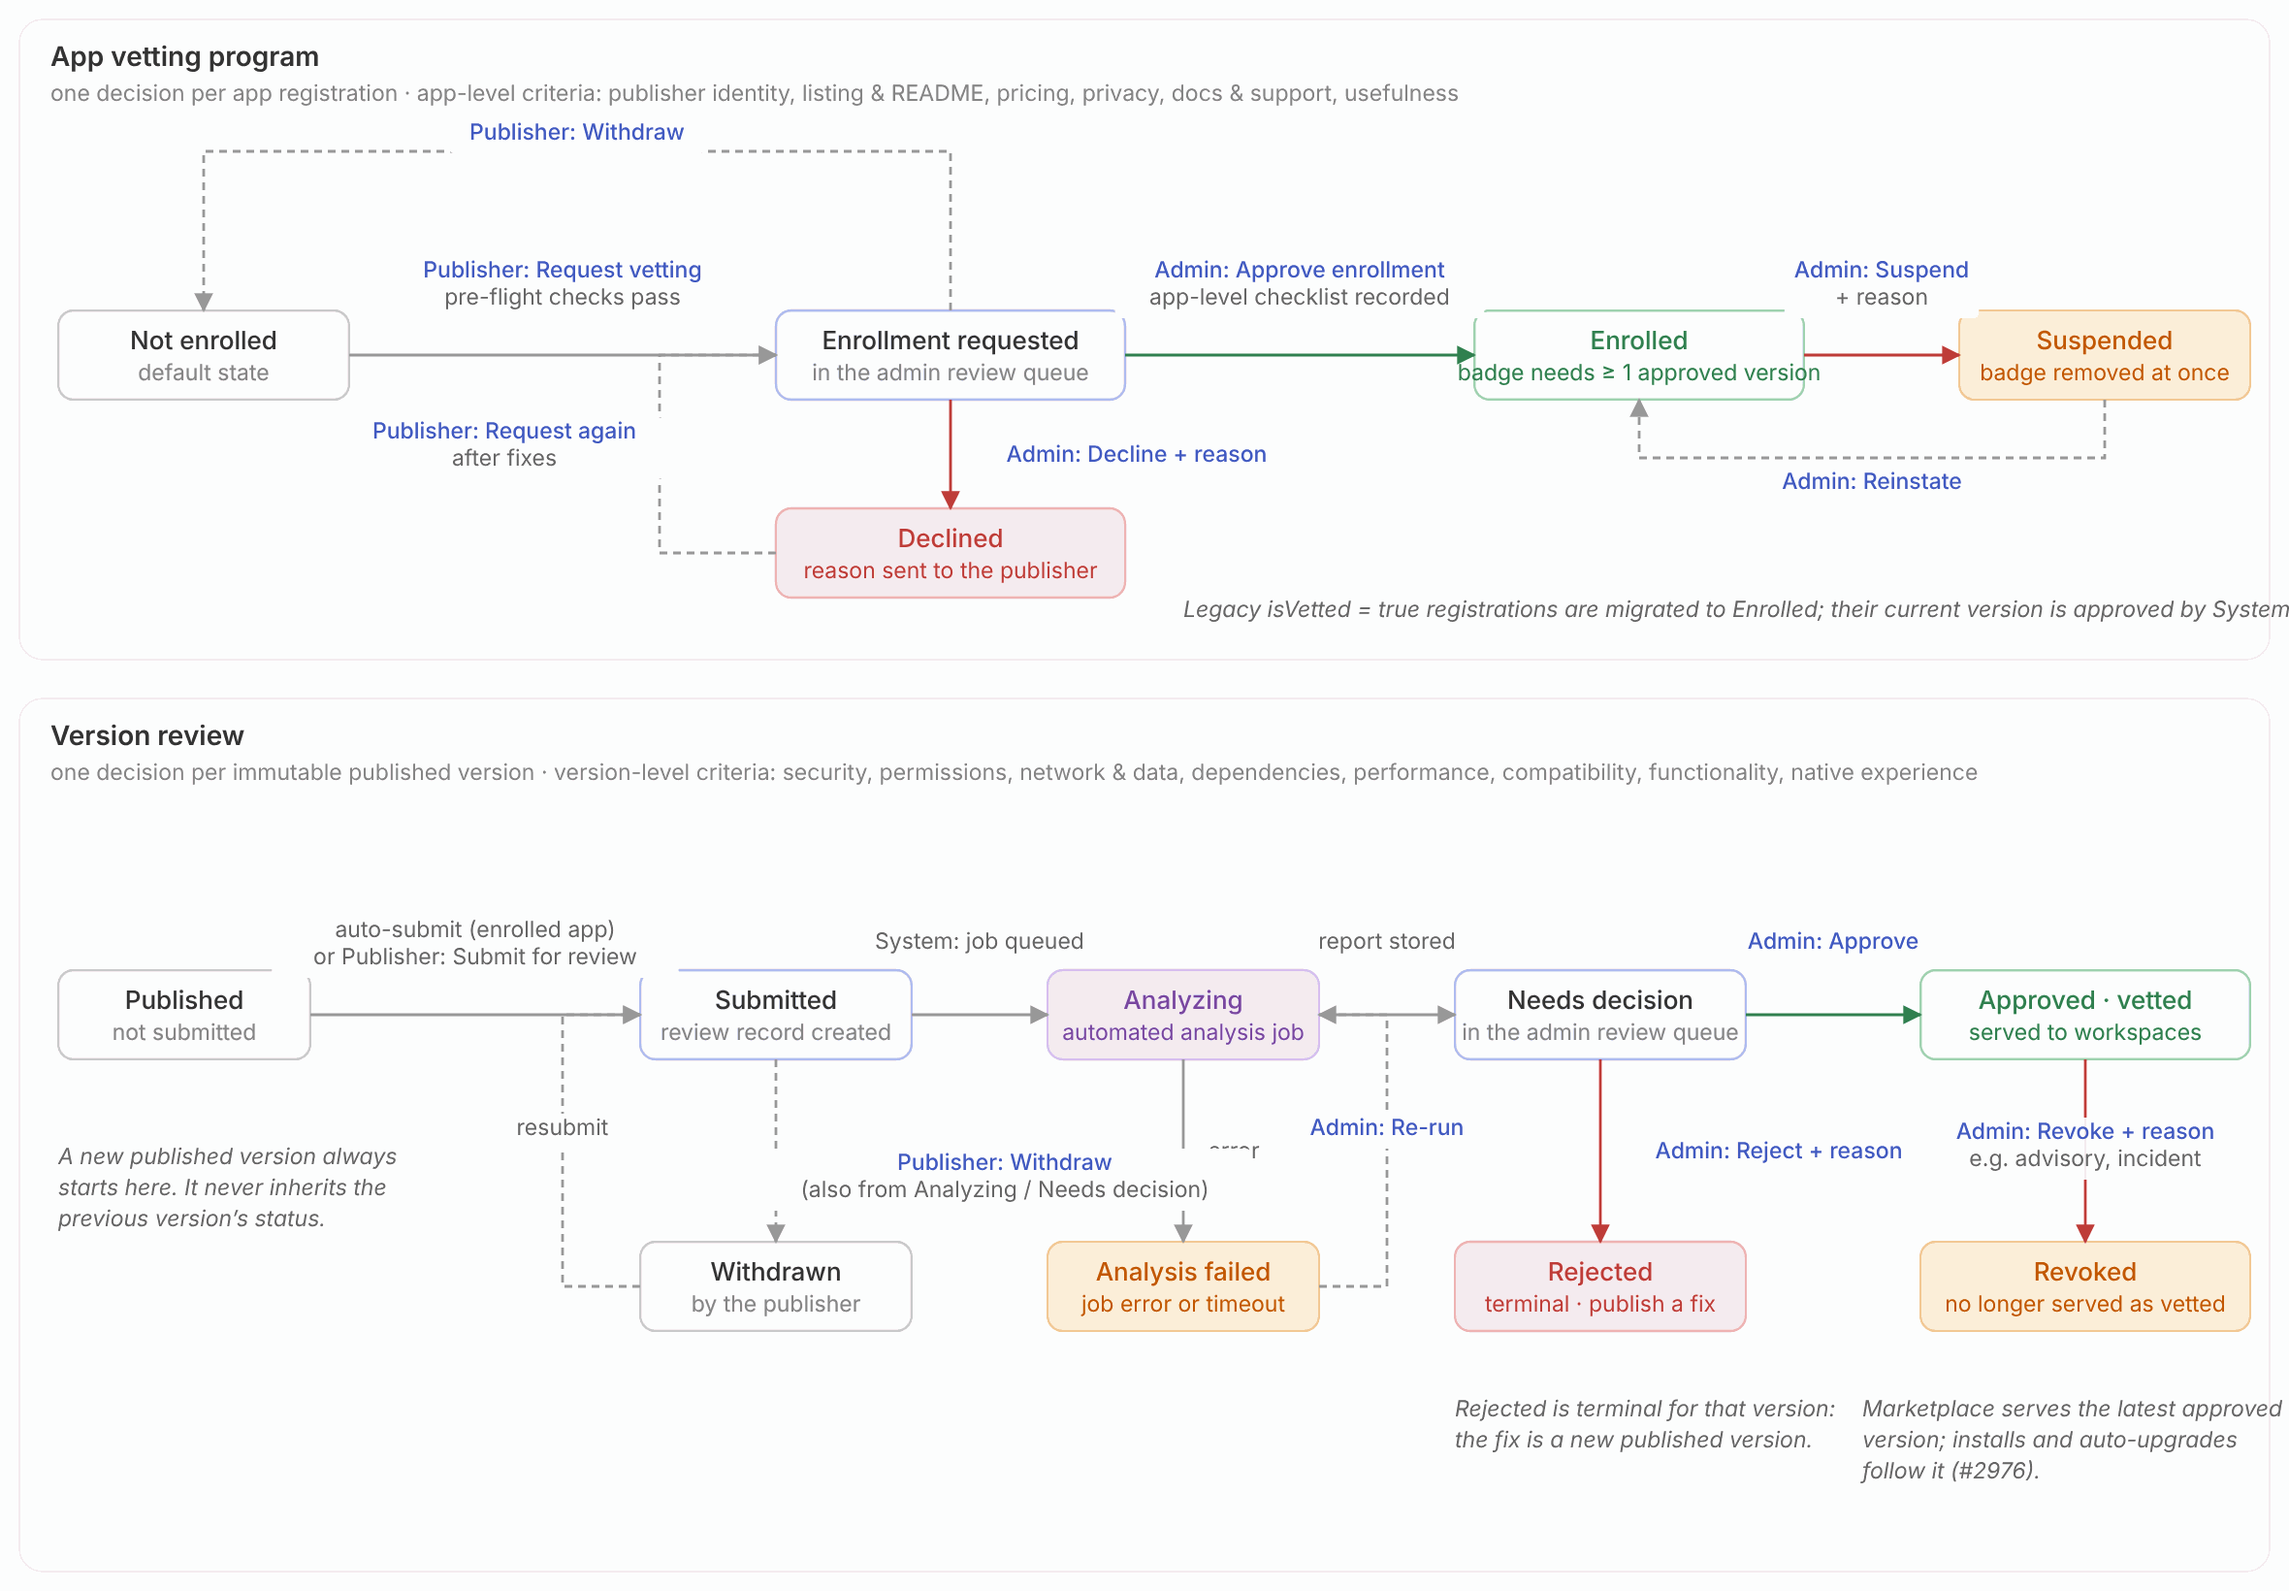
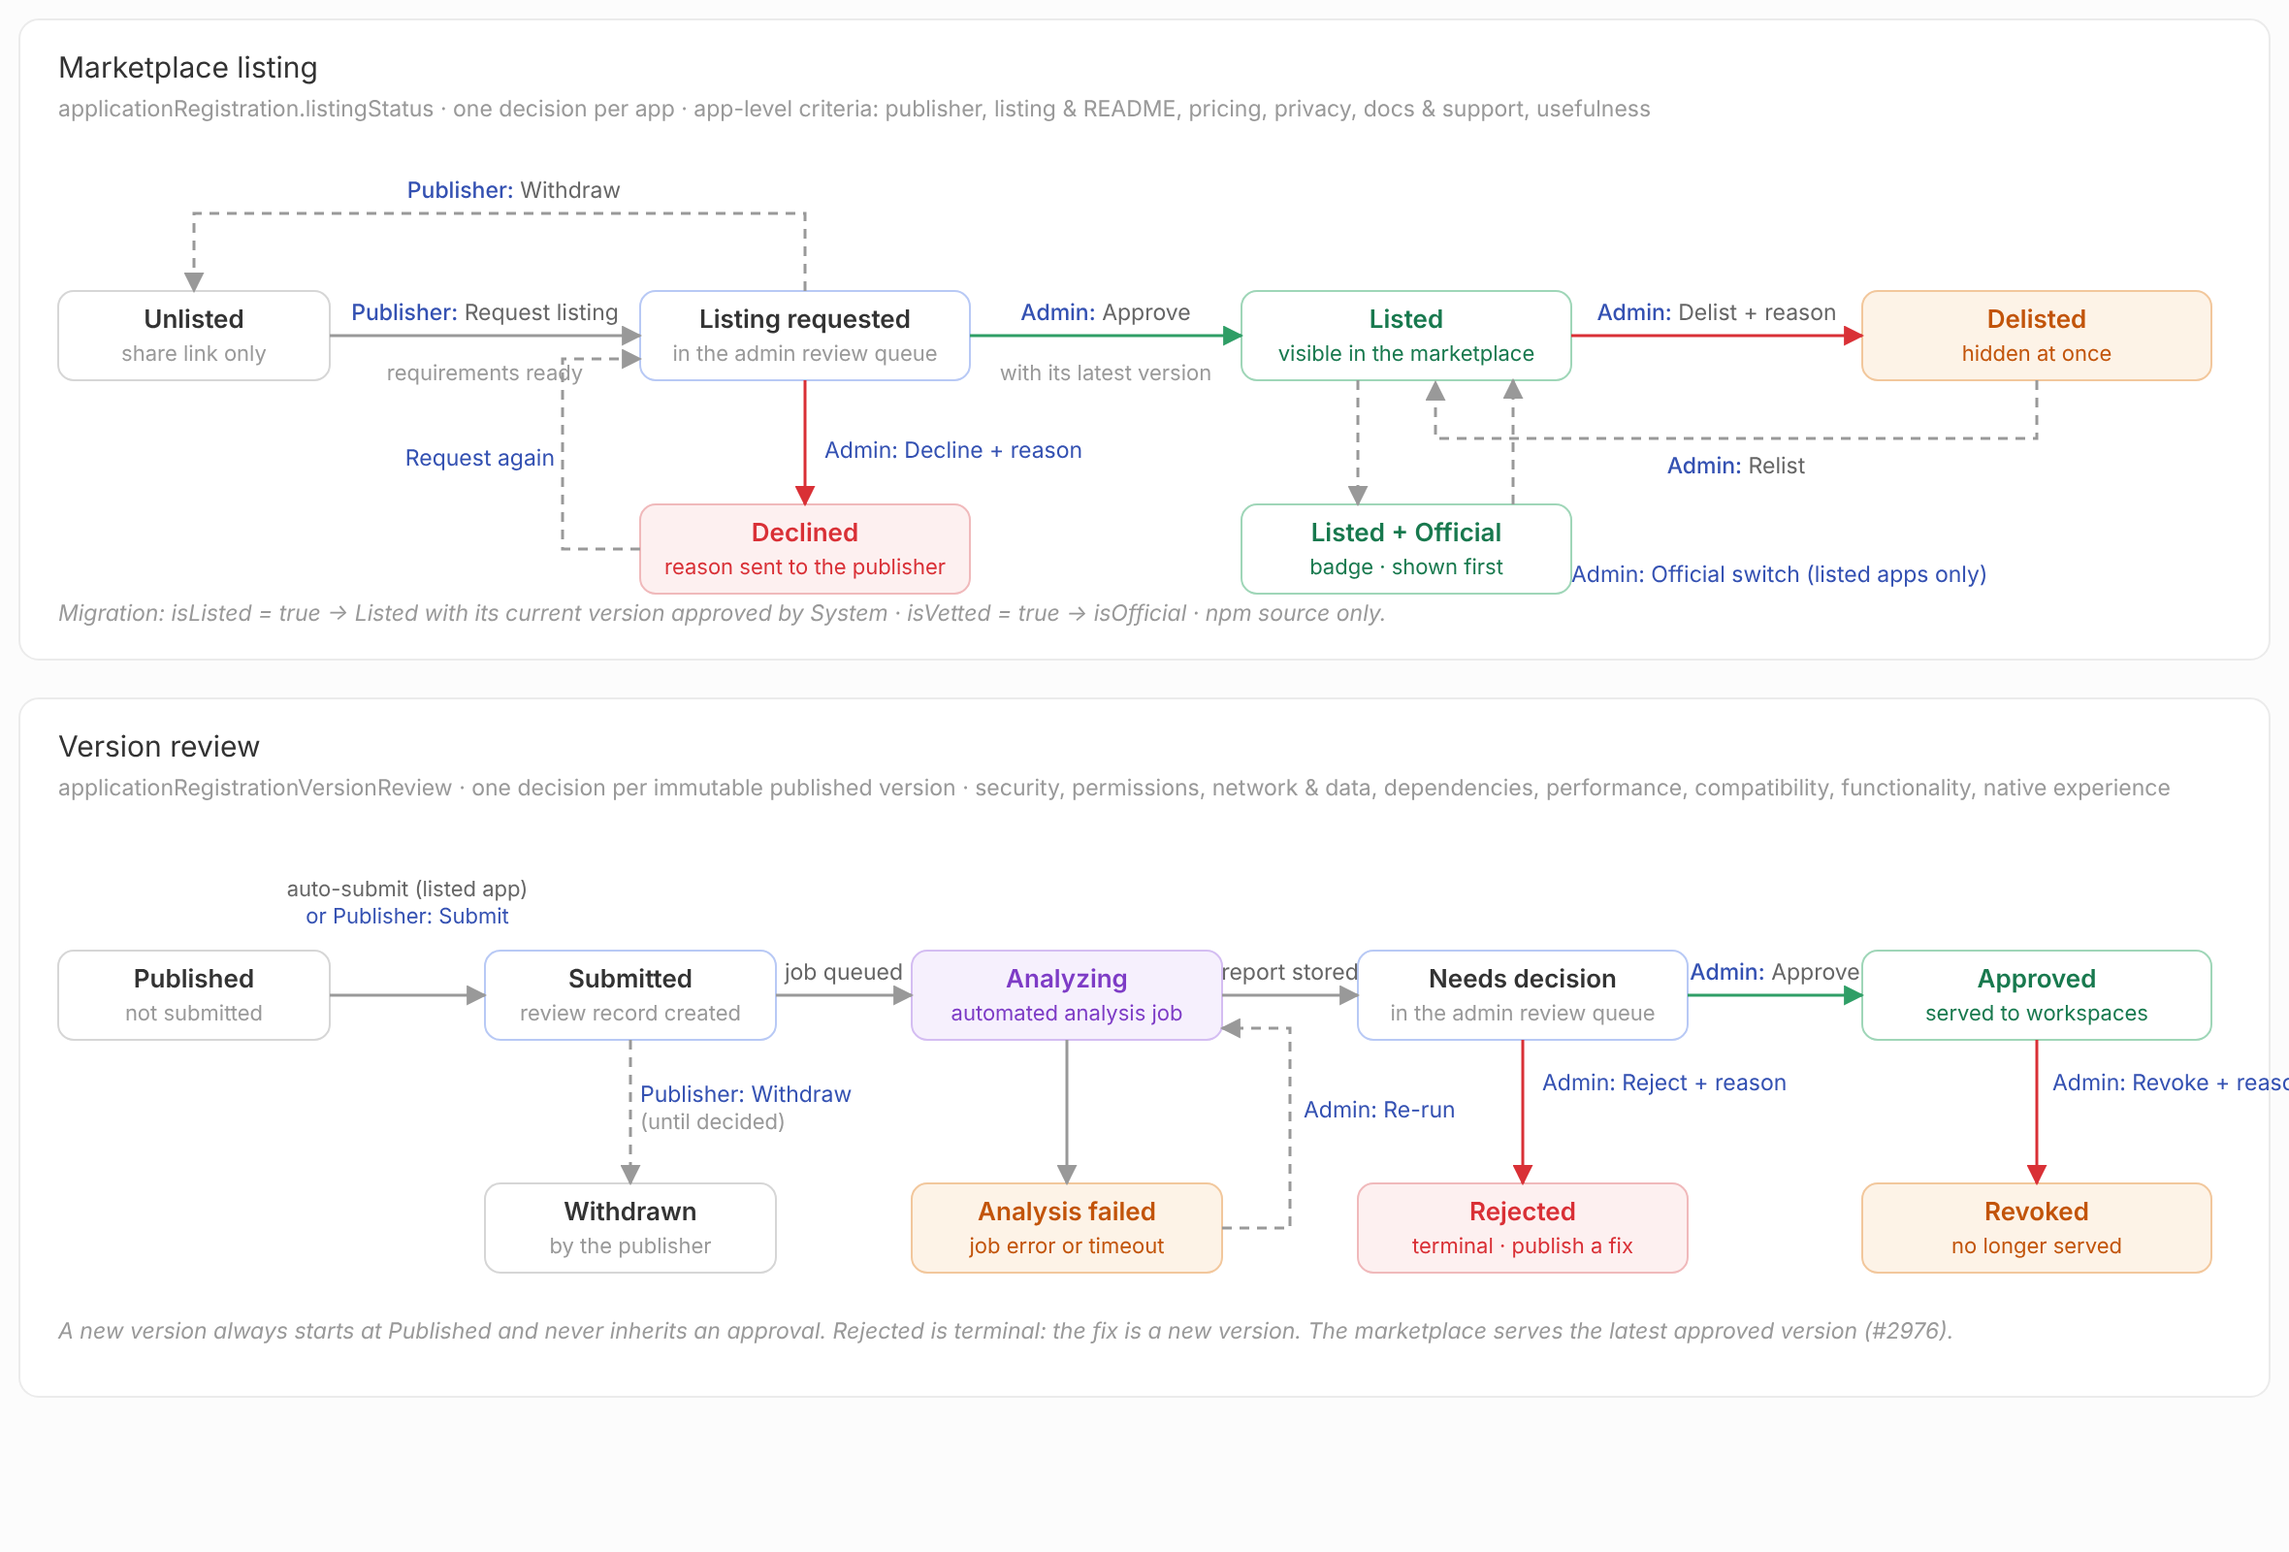
Revise app review design: listed and official apps, shared Distribution tab
Every marketplace app is reviewed (listingStatus), Official replaces Vetted
as the badge, the review queue moves above the registrations table, and the
admin and publisher pages share the Distribution tab and version page.

Claude-Session: https://claude.ai/code/session_01QtTKa8mMqxR8gMtZDAMiki

diff --git a/packages/twenty-server/docs/APP_VETTING_REVIEW.md b/packages/twenty-server/docs/APP_VETTING_REVIEW.md
@@ -1,4 +1,4 @@
-# App vetting review workflow
+# App listing and version review
 
 Design for [core-team-issues#2975](https://github.com/twentyhq/core-team-issues/issues/2975): submit, approve or reject a published app version. It builds on the immutable version records (`core.applicationRegistrationVersion`) and the [vetting checklist](../../twenty-docs/developers/extend/apps/operations/marketplace-vetting.mdx).
 
@@ -6,31 +6,82 @@ The images in `app-vetting-review/` are design mockups, not screenshots of shipp
 
 ## Principles
 
-- The vetted designation belongs to an exact published version. A new release never inherits it.
-- Two kinds of requests: an app enrolls once in the vetted program (app-level criteria), then every published version is reviewed on its own (version-level criteria).
+- Every app in the marketplace is reviewed by Twenty. **Listed** means reviewed and visible to every workspace. There is no unreviewed tier inside the marketplace.
+- **Official** is a badge on top of a listed app: the reference app for an integration (one official Slack app, one official WhatsApp app). An admin grants it; it replaces today's `isVetted`.
+- Listing is decided once per app (app-level criteria). Every published version of a listed app is then reviewed on its own (version-level criteria) and never inherits a previous approval.
 - Automated analysis prepares every decision; a server admin stamps it. Nothing is approved without a human.
-- Every submission, analysis, decision and revocation is an audit event with actor, timestamp and reason.
 - The marketplace serves the latest approved version compatible with the server, never the latest published one (issue 2976).
+- Unlisted apps stay installable with a share link, behind a "not reviewed by Twenty" warning.
+- The admin and publisher app pages share one Distribution tab and one version page; only the actions differ.
+
+## Naming
+
+| Today | New | Meaning |
+| --- | --- | --- |
+| `isListed` (admin switch "Allow installation") | `listingStatus`: `UNLISTED`, `LISTING_REQUESTED`, `LISTED`, `DECLINED`, `DELISTED` | Reviewed and visible in the marketplace. |
+| `isVetted` (admin switch "Vetted") | `isOfficial` | Official badge, shown first. Only on listed apps. |
+| `MARKETPLACE_VETTED_APPLICATIONS` | `MARKETPLACE_OFFICIAL_APPLICATIONS` | Seeds `isOfficial` and orders official apps. |
+| "Vetted only" filter, "not vetted" banners | "Official only" filter (off by default); "not reviewed by Twenty" banner on unlisted apps | |
+
+"Vetting" stays the name of the review process in docs; it is no longer a status.
 
 ## Workflows
 
 ![Workflow states](app-vetting-review/workflow-states.png)
 
-![End-to-end sequence](app-vetting-review/workflow-sequence.png)
+End to end:
+
+1. The publisher runs `twenty app publish` from CI; npm stores the package with its provenance attestation.
+2. The catalog sync records the version with its sha512 integrity and provenance.
+3. If the app is listed and auto-submit is on, a review is created; otherwise the publisher submits from the Versions table.
+4. The analysis job verifies the artifact, runs the scanners and the agent review, and stores the report. The review moves to "Needs decision" and appears in the admin review queue.
+5. An admin approves or rejects with a reason. Approval refreshes the catalog cache, and installs and auto-upgrades move to that version.
+6. The publisher gets the decision and the reason by email and in the Versions table. A rejected version is final: the fix is a new version, which starts again at step 2.
+
+## Admin experience
+
+Admin Panel > Apps: the review queue sits between the catalog actions and the registrations table. The Vetted column becomes Listing (status) plus the served version, and official apps carry the badge next to their name.
+
+![Admin Apps tab](app-vetting-review/admin-apps.png)
+
+App detail > Distribution: the listing card (approve, decline, delist with a reason), the Official switch, the listing requirements with the reviewer's verdicts, the versions table with row actions, sharing and the activity log. The "Allow installation" and "Vetted" switches leave the General tab; "Pre-install on new workspaces" stays there.
+
+![Admin Distribution tab](app-vetting-review/distribution-admin.png)
+
+The version page, opened from a Versions row, shows the submission facts, the automated report, the changes since the last approved version and, for admins only, the decision form.
+
+![Version review page](app-vetting-review/version-review.png)
+
+## Publisher experience
+
+Settings > Developers > app > Distribution: the same tab. An unlisted app shows the listing requirements, checked automatically, and the "Request listing" button, which stays disabled until they are all ready. Versions can be self-checked before the request.
+
+![Publisher Distribution tab, unlisted](app-vetting-review/distribution-publisher-unlisted.png)
+
+Once the app is listed, the publisher sees the same listing card (with a read-only Official state), the auto-submit switch, the versions with each rejection's reason, and the activity log. The row menu offers "Open review", "Run self-check" and "Withdraw submission".
+
+![Publisher Distribution tab, listed](app-vetting-review/distribution-publisher.png)
+
+## Marketplace
+
+All listed apps show without a filter. Official apps come first with a badge ("Official app" tooltip). Install and upgrade resolve to the latest approved version. The owner workspace sees a note when a newer version awaits review. A shared link to an unlisted app shows a warning.
+
+![Marketplace](app-vetting-review/marketplace.png)
 
 ## Data model
 
 | Change | Purpose |
 | --- | --- |
-| `applicationRegistration.vettingStatus` (`NOT_ENROLLED`, `ENROLLMENT_REQUESTED`, `ENROLLED`, `DECLINED`, `SUSPENDED`) | Replaces the `isVetted` boolean as source of truth. `isVetted` stays as a derived GraphQL field: enrolled and at least one approved version compatible with the server. |
-| `applicationRegistration.autoSubmitNewVersions` | Publisher preference, default `true` once enrolled. |
+| `applicationRegistration.listingStatus` | Replaces `isListed`. The catalog query filters on `LISTED`. |
+| `applicationRegistration.isOfficial` | Replaces `isVetted`. A validation rejects it unless the app is `LISTED`. |
+| `applicationRegistration.autoSubmitNewVersions` | Publisher preference, default `true` once listed. |
 | `applicationRegistrationVersion.integrity`, `.provenance` | sha512 from the registry (or computed for tarballs) and the attestation facts (repository, workflow, commit). |
-| `applicationRegistrationVettingRequest` | One row per enrollment request: requester, workspace, message, status, decision, reason, app-level checklist. |
+| `applicationRegistrationListingRequest` | One row per listing request: requester, workspace, message, status, decision, reason, app-level checklist. |
 | `applicationRegistrationVersionReview` | One row per submission of a version: submitter, note, status (`SUBMITTED`, `ANALYZING`, `NEEDS_DECISION`, `APPROVED`, `REJECTED`, `REVOKED`, `WITHDRAWN`, `ANALYSIS_FAILED`), decision, reason, manual checklist, revocation. At most one active review per version. |
 | `applicationRegistrationVersionAnalysis` | One row per analysis run: trigger (system, admin, publisher), status, artifact integrity analyzed, provenance verified, model, rubric version, summary, recommendation, findings, permission diff, scanner outputs. Immutable once completed. |
-| `applicationReviewEvent` | Audit trail of every transition: subject, event, actor type and id, reason, timestamp. |
+| `applicationReviewEvent` | Activity log of every transition: subject, event, actor type and id, reason, timestamp. |
 
-Legacy data: registrations with `isVetted = true` are migrated to `ENROLLED`, and their current `latestAvailableVersion` gets an `APPROVED` review by `SYSTEM` so the marketplace keeps serving them. `MARKETPLACE_VETTED_APPLICATIONS` only keeps its ordering role.
+Legacy data: `isListed = true` becomes `LISTED`, with the current `latestAvailableVersion` approved by `SYSTEM` so the marketplace keeps serving it. `isVetted = true` becomes `isOfficial = true`. Only npm-sourced apps can be listed, as today.
 
 ## Automated analysis
 
@@ -46,40 +97,12 @@ A worker job runs the same pipeline for a submission, an admin re-run and a publ
 
 The review moves to `NEEDS_DECISION` when the report is stored, or to `ANALYSIS_FAILED` when the job errors.
 
-## Admin experience
-
-Admin Panel > Apps gets a review queue above the registrations table. The Vetted column shows the approved version, a pending request or a suspension.
-
-![Admin review queue](app-vetting-review/admin-review-queue.png)
-
-The app detail page gets a Vetting tab that replaces the Vetted switch of the General tab: enrollment status and app-level checklist, the versions table with provenance, analysis and review state, and the audit log.
-
-![Admin app Vetting tab](app-vetting-review/admin-app-vetting-tab.png)
-
-A version review page shows the submission facts, the automated report, the changes since the last approved version, the decision form and the history.
-
-![Admin version review](app-vetting-review/admin-version-review.png)
-
-## Publisher experience
-
-Settings > Developers > Apps > My apps > app > Distribution gets a Vetting section with the pre-flight checklist and the request button. A self-check runs the same analysis before submitting.
-
-![Publisher request vetting](app-vetting-review/publisher-request-vetting.png)
-
-A Versions tab lists every published version with its review state, the reason of a rejection, the auto-submit preference and the self-check report.
-
-![Publisher versions](app-vetting-review/publisher-versions.png)
-
-## Marketplace
-
-The badge reads "Vetted by Twenty" with the approved version. Install and upgrade resolve to that version. The owner workspace sees a note when a newer version is awaiting review.
-
-![Marketplace vetted version](app-vetting-review/marketplace-vetted-version.png)
-
 ## API surface
 
-Publisher (metadata API, owner workspace, Developers permission): `requestApplicationVetting`, `withdrawApplicationVettingRequest`, `submitApplicationVersionForReview`, `withdrawApplicationVersionReview`, `runApplicationVersionSelfCheck` (rate-limited), `updateApplicationRegistration({ autoSubmitNewVersions })`, `applicationRegistrationVersions` with review state and report.
+Publisher (metadata API, owner workspace, Developers permission): `requestApplicationListing`, `withdrawApplicationListingRequest`, `submitApplicationVersionForReview`, `withdrawApplicationVersionReview`, `runApplicationVersionSelfCheck` (rate-limited), `updateApplicationRegistration({ autoSubmitNewVersions })`, `applicationRegistrationVersions` with review state and report.
 
-Admin (admin API, `canAccessFullAdminPanel`): `findAdminApplicationReviewQueue`, `findAdminApplicationRegistrationVersions`, `findAdminApplicationVersionReview`, `decideApplicationVettingRequest`, `decideApplicationVersionReview`, `revokeApplicationVersionApproval`, `suspendApplicationVetting`, `reinstateApplicationVetting`, `runApplicationVersionAnalysis`.
+Admin (admin API, `canAccessFullAdminPanel`): `findAdminApplicationReviewQueue`, `findAdminApplicationRegistrationVersions`, `findAdminApplicationVersionReview`, `decideApplicationListingRequest`, `delistApplication`, `relistApplication`, `decideApplicationVersionReview`, `revokeApplicationVersionApproval`, `runApplicationVersionAnalysis`. `AdminUpdateApplicationRegistrationPayload` swaps `isListed` and `isVetted` for `isOfficial`.
 
-Jobs and hooks: `ApplicationVersionAnalysisJob`; catalog sync and tarball publish create a review for enrolled apps with auto-submit on; decisions invalidate the marketplace catalog cache; emails to the publisher on decision and to admins on new requests.
+Both pages read the same `applicationRegistrationVersions` shape; the admin resolver adds reviewer notes and the decision fields.
+
+Jobs and hooks: `ApplicationVersionAnalysisJob`; catalog sync and tarball publish create a review for listed apps with auto-submit on; decisions invalidate the marketplace catalog cache; emails to the publisher on decision and to admins on new requests.
